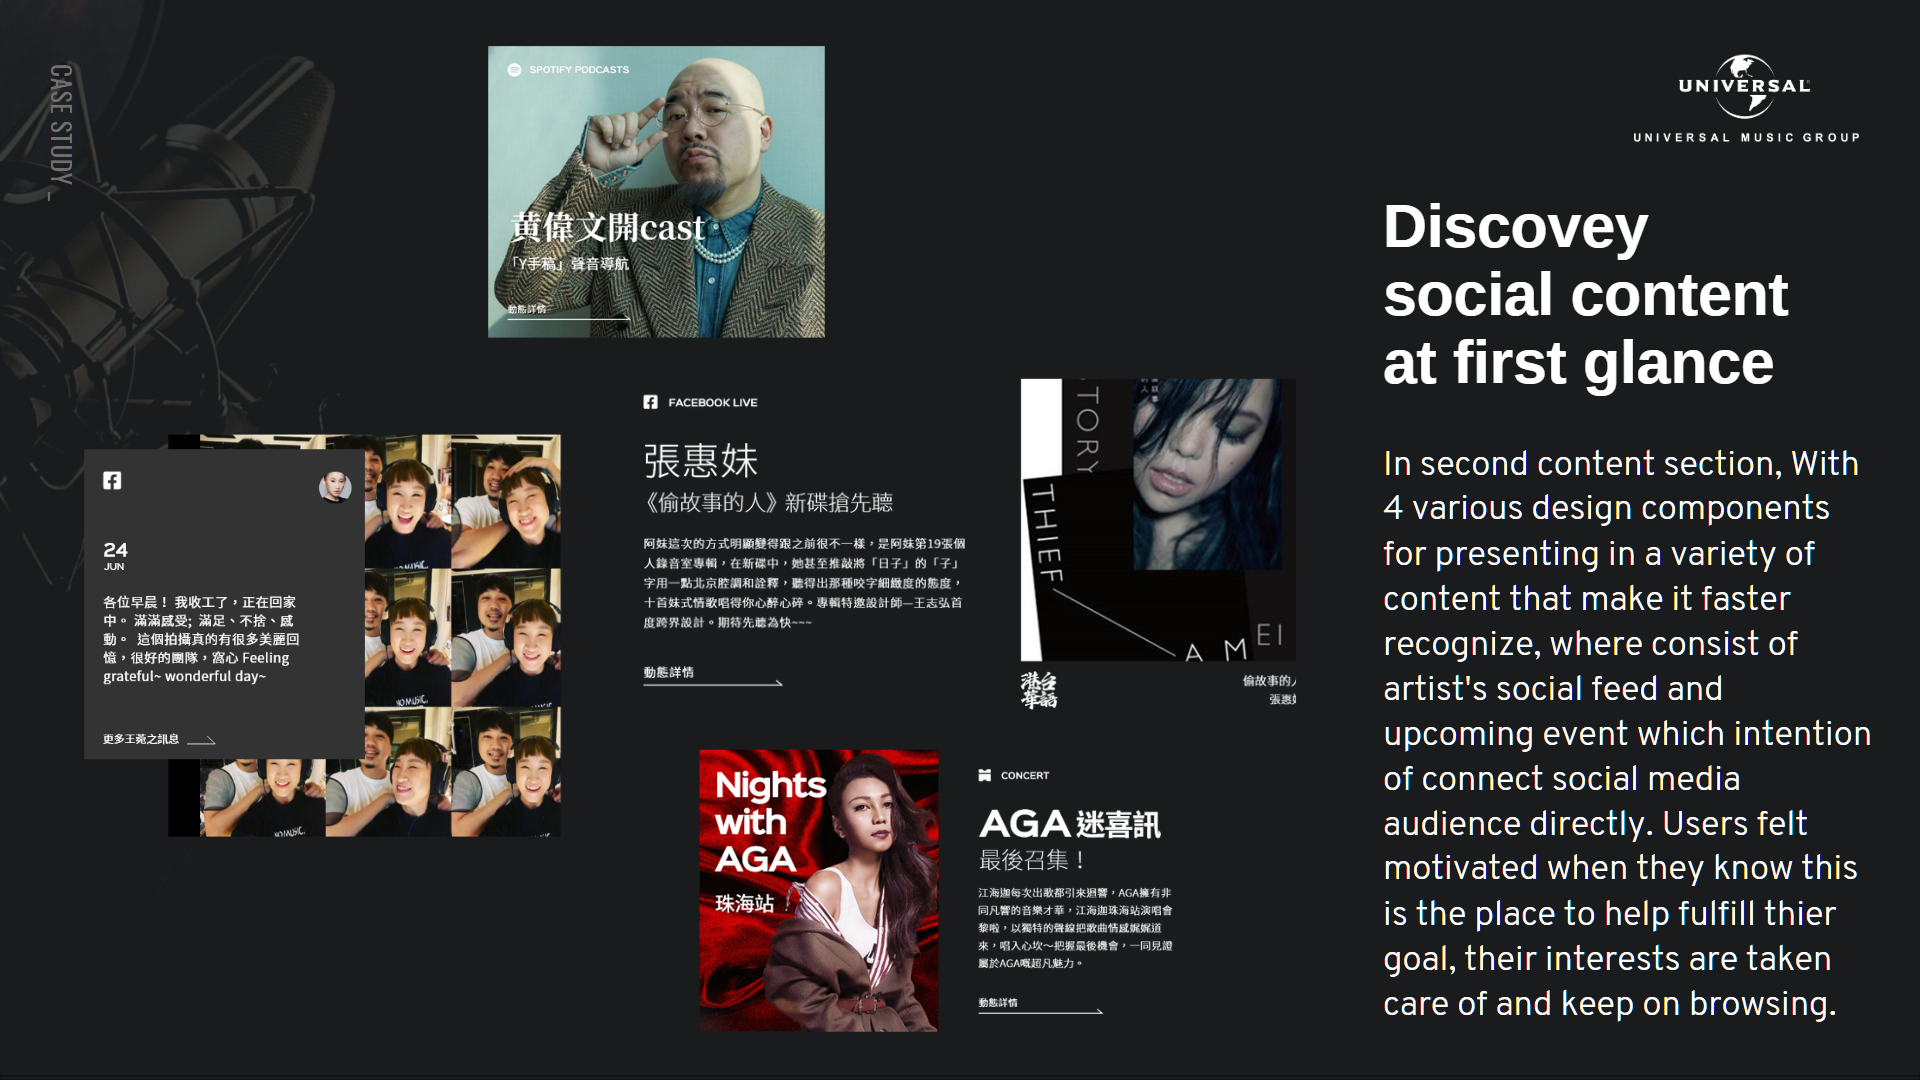
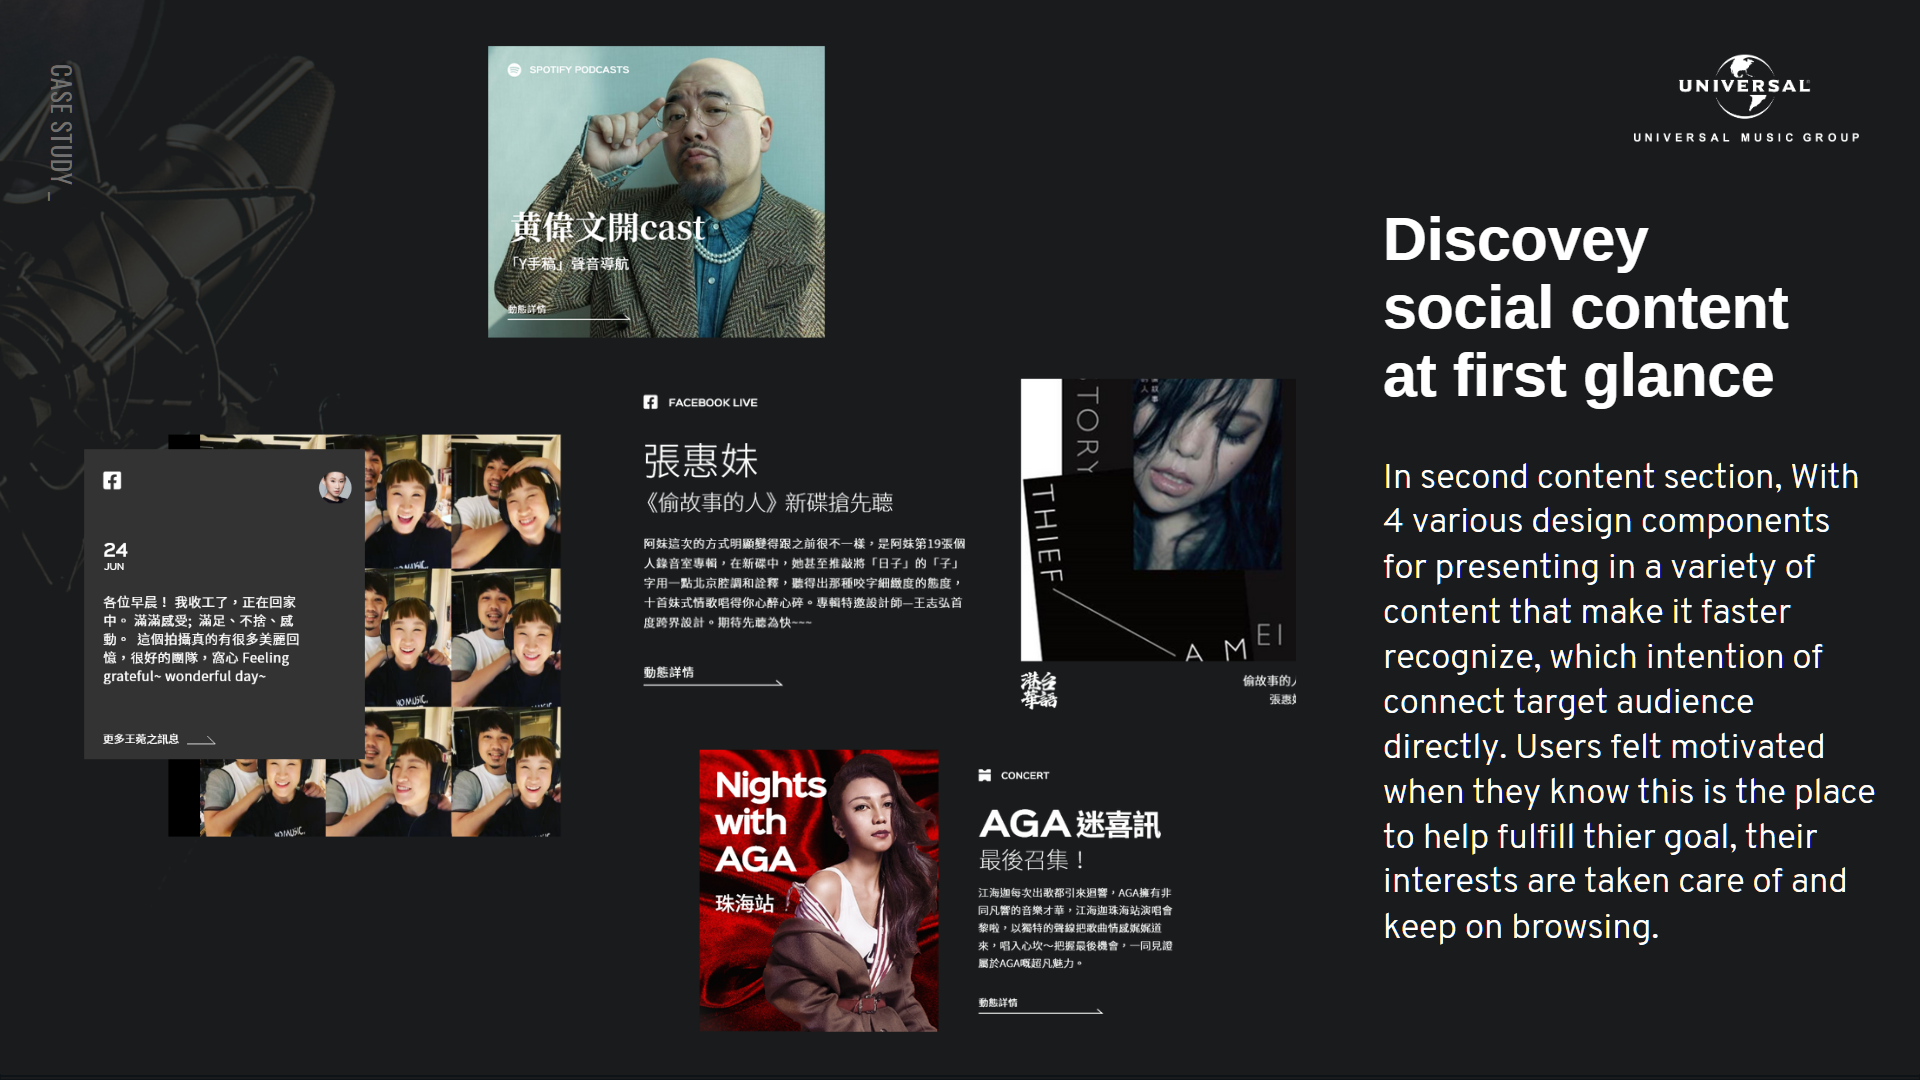
3009_01

Changed region(s): [[0.7188, 0.1833, 0.9688, 0.9472]]

diff --git a/project/umg_hk.html b/project/umg_hk.html
@@ -471,7 +471,7 @@
       <p class="observable body spacing-medium">As prototyping shown, Redesigned landing experience that keep the content structure feeling lighter and crisp design, thereby not overwhelming the user when landed on, and also it can be a gentle push to the next page in a journey. It purpose to protect the user from getting stuck and keep on browsing, so that lead to a reduce user bouncing also. <span class="material-icons" style="font-size:15px; top: 2px; padding-right: 2px; padding-left: 2px;">open_in_new</span> <a class="image-popup-fit-width underlined" title="Click on image to enlarge/reduce it"  href="../images/projects/umg_hk/landing_section.gif">Detail</a></p>
 
       <p class="observable h1 spacing-sub-title">Discovey content at first glance easily</p>
-      <p class="observable body spacing-medium">In second content section, With 4 various design components for presenting in a variety of content that make it faster recognize, where consist of artist's social feed and upcoming event which intention of connect social media audience directly. Users felt motivated when they know this is the place to help fulfill thier goal, their interests are taken care of and keep on browsing. <span class="material-icons" style="font-size:15px; top: 2px; padding-right: 2px; padding-left: 2px;">open_in_new</span> <a class="image-popup-fit-width underlined" title="Click on image to enlarge/reduce it"  href="../images/projects/umg_hk/content.png">Detail</a>&nbsp; Beside, Having a full screen menu also helps in this aspect as it provides a clear overview of the website, easy access to the rest of the content. <span class="material-icons" style="font-size:15px; top: 2px; padding-right: 2px; padding-left: 2px;">open_in_new</span> <a class="image-popup-fit-width underlined" title="Click on image to enlarge/reduce it"  href="../images/projects/umg_hk/menu.jpg">Detail</a></p>
+      <p class="observable body spacing-medium">In second content section, With 4 various design components for presenting in a variety of content that make it faster recognize,  which intention of connect social media audience directly. Users felt motivated when they know this is the place to help fulfill thier goal, their interests are taken care of and keep on browsing. <!--where consist of artist's social feed and upcoming event--><span class="material-icons" style="font-size:15px; top: 2px; padding-right: 2px; padding-left: 2px;">open_in_new</span> <a class="image-popup-fit-width underlined" title="Click on image to enlarge/reduce it"  href="../images/projects/umg_hk/content.png">Detail</a>&nbsp; Beside, Having a full screen menu also helps in this aspect as it provides a clear overview of the website, easy access to the rest of the content. <span class="material-icons" style="font-size:15px; top: 2px; padding-right: 2px; padding-left: 2px;">open_in_new</span> <a class="image-popup-fit-width underlined" title="Click on image to enlarge/reduce it"  href="../images/projects/umg_hk/menu.jpg">Detail</a></p>
 
       <p class="observable body spacing-small">Affiliate program was second goal of the project. As demo shown, CTA button as round element is easier to draw users attention via highly visable accent blue in way. Once users click on button in the "Album Detail" page that lead them redirect to Ushop.com (Official e-shop) for purchase CD Album though affiliate tracking link. <span class="material-icons" style="font-size:15px; top: 2px; padding-right: 2px; padding-left: 2px;">open_in_new</span> <a class="image-popup-fit-width underlined" title="Click on image to enlarge/reduce it"  href="../images/projects/umg_hk/affiliate.jpg">Detail</a></p>
     </div>

diff --git a/umg_case_study.html b/umg_case_study.html
@@ -409,14 +409,14 @@ body, .body {
 
         <!--<p class=" body spacing-small">Landing page 第1部分,  Hero banner Slider。</p>-->
 
-
         <p class=" body spacing-medium">下一頁 Slide.....</p>
 
 
-        <p class=" body spacing-small"> Landing第2部分係核心內容, 一眼就可以發現內容, 重新設計內容表達 係Box content layout, 有唔同Design element 去配合 唔同類型Content, 歌手Social feed, 同埋歌手Event 等等, 連接到 需要Social media content觀眾。 帶動番Users繼續瀏覽, 增加多D traffic。</p>
 
+        <p class=" body spacing-small"> Landing第2部分係核心內容,  重新設計內容表達,  有唔同Design element 去配合 唔同類型Content, 視覺上更快地識別, 直接連接目標受眾。 <!--歌手Social feed, 同埋歌手Event 等等。 連接到 需要Social media content觀眾。 帶動番Users繼續瀏覽, 增加多D traffic。--></p>
 
         <p class=" body spacing-medium">下一頁 Slide.....</p>
+
 
 
         <p class=" body spacing-small">重新設計Menu 係Full screen, 有1個清晰概覽 見到網站架構。 可以容易瀏覽其餘內容。</p>
